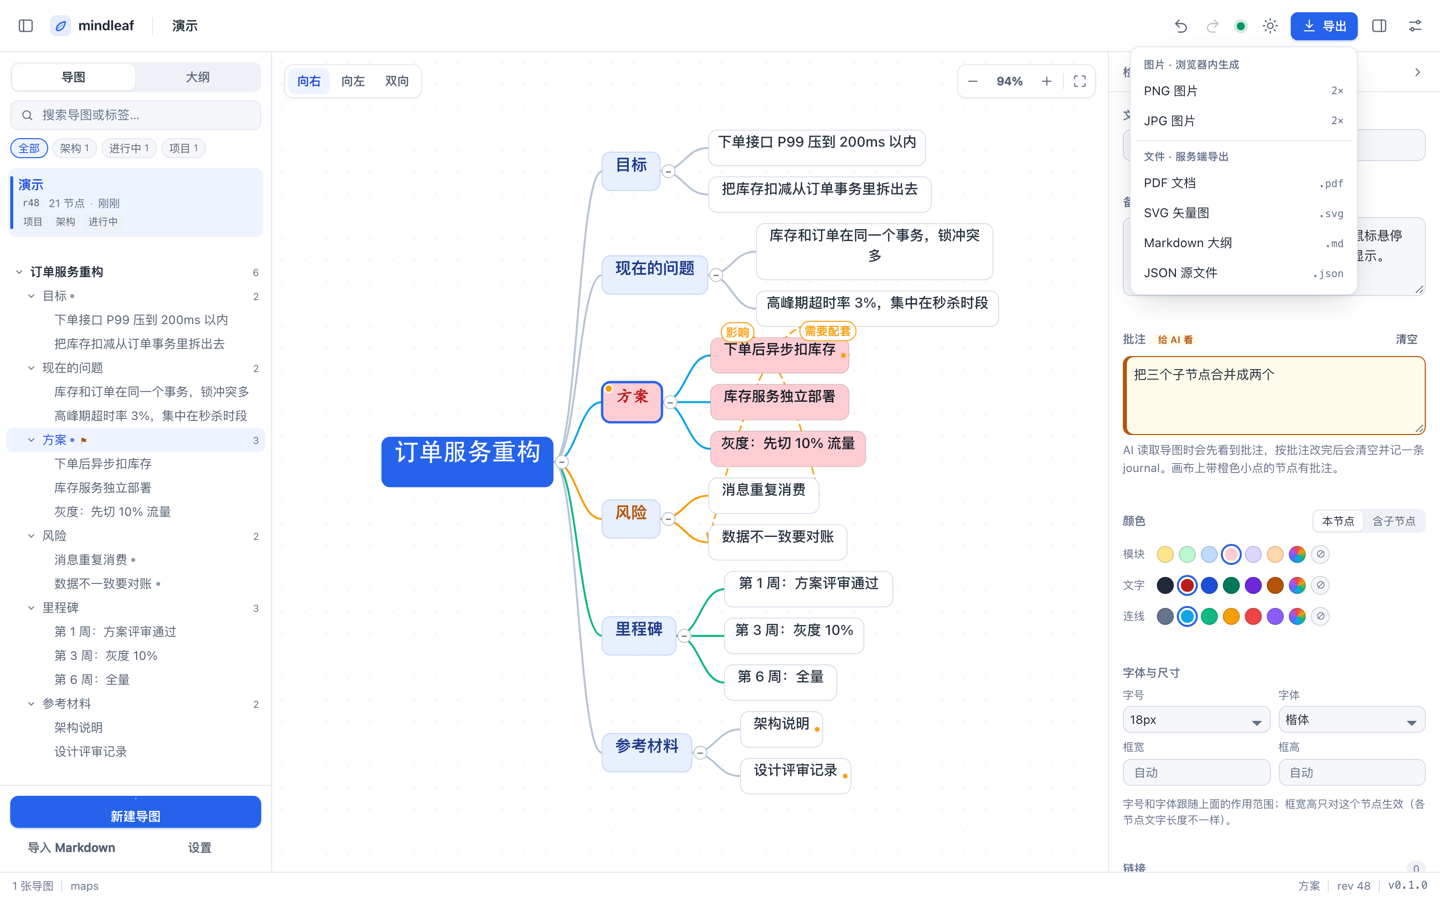
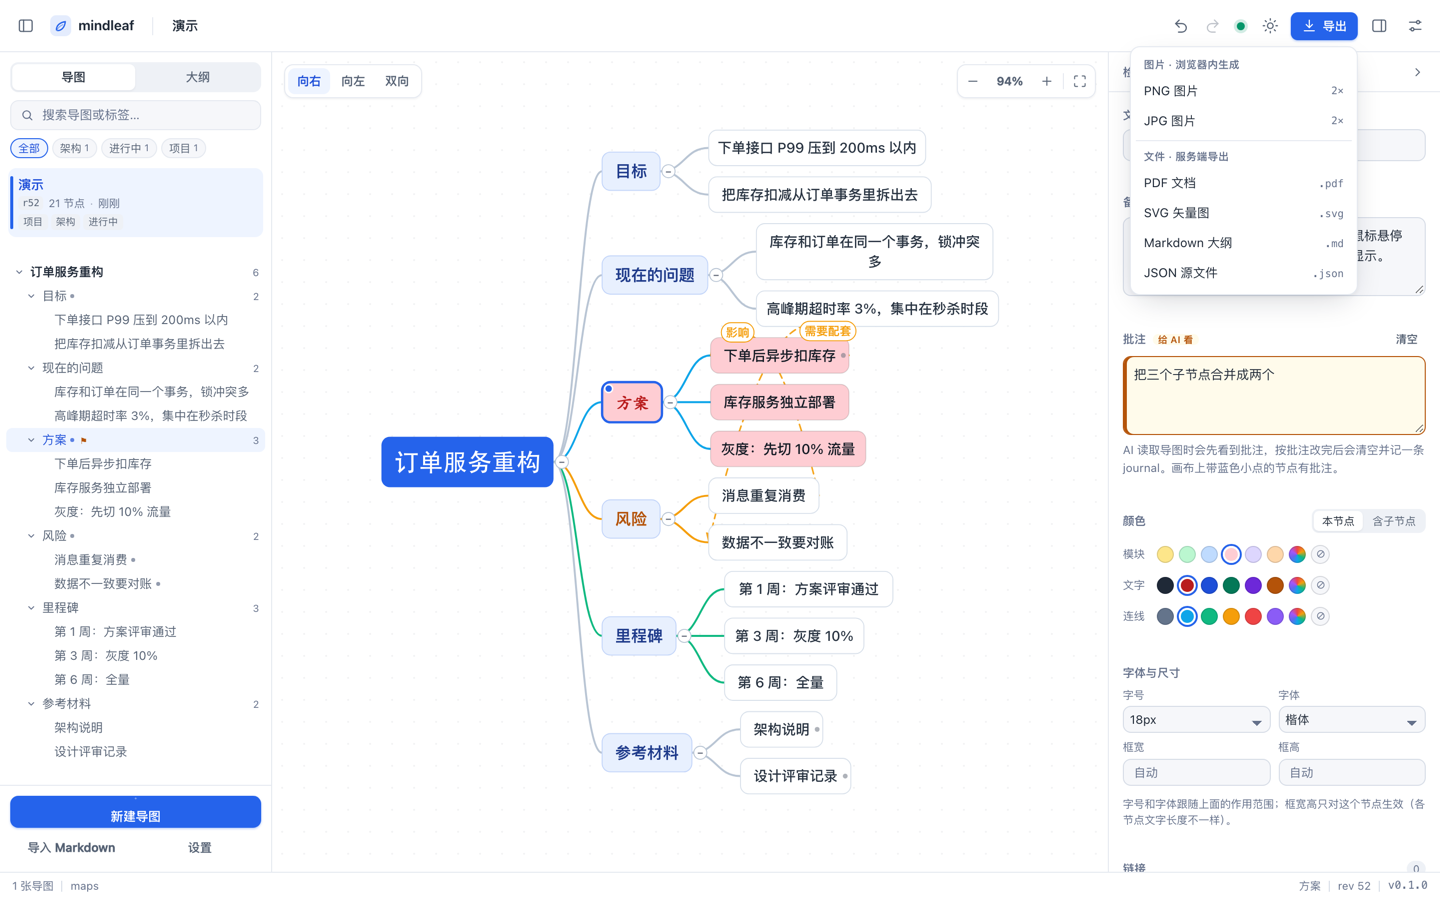
批注点改蓝、备注不再打点；节点文字改成真正垂直居中
标记：
- 批注标记改成蓝色圆点（浅色 #2563eb / 深色 #60a5fa），清空批注后自动消失
- 备注不再有画布标记（只有悬停提示），「备注」和「批注」不再各有一种点
- 链接小点从橙色改成低透明度中性灰，避免和批注蓝点混淆
- 更新检查器提示、README 中英、CHANGELOG、AGENTS 的说明（蓝点=批注）

文字居中：
- 原因：之前用 0.42 的经验值估基线，字明显偏上
- 改成按字体真实度量算：ascent 0.941em / descent 0.235em（Chromium 实测 system/serif/mono 一致），
  基线 = 文字块顶部 + (行高 - ascent - descent)/2 + ascent
- 基线在布局里算一次（node.firstBaseline），SVG 和矢量 PDF 共用，网页/PNG/PDF 三处一致
- 实测导出图里单行节点文字墨迹中心与框中心偏差 ≤ 0.5px

测试：新增「文字垂直居中」用例，批注标记改为断言蓝色；共 159 个全过。
截图全部重新生成。

diff --git a/web/app.js b/web/app.js
@@ -708,7 +708,7 @@ function nodeInspectorHtml(node) {
         </div>
         <textarea class="input textarea annotation-input${node.annotation ? ' has-value' : ''}" id="insp-annotation" rows="3" maxlength="4000"
           placeholder="想让 AI 在这里改什么？例如：把这三个子节点合并成两个，名字更短一点">${esc(node.annotation ?? '')}</textarea>
-        <p class="hint annotation-hint">AI 读取导图时会先看到批注，按批注改完后会清空并记一条 journal。画布上带橙色小点的节点有批注。</p>
+        <p class="hint annotation-hint">AI 读取导图时会先看到批注，按批注改完后会清空并记一条 journal。画布上带蓝色小点的节点有批注。</p>
       </section>
       <section class="field">
         <div class="color-head">

diff --git a/CHANGELOG.md b/CHANGELOG.md
@@ -11,7 +11,8 @@
 
 ### 功能
 
-- **批注**：节点上可以直接写"这里要怎么改"，AI 读图时会先看到并按批注修改，改完自动清空；画布和大纲都有标记
+- **批注**：节点上可以直接写"这里要怎么改"，AI 读图时会先看到并按批注修改，改完自动清空；画布上蓝点、大纲里 ⚑ 标记
+- **文字垂直居中**：节点文字按字体 ascent/descent 精确居中（网页、PNG、PDF 三处一致）
 - **悬停看备注**：鼠标在节点上停 0.5–3 秒（可设置）后，在鼠标旁边浮出该节点的备注，字号跟侧栏一致
 - **界面偏好**：左右两栏可以拖动分隔线改宽（双击恢复默认，会记住）；设置里能调侧栏字号（小 / 标准 / 大 / 特大），只影响两栏
 - **网页编辑**：行内编辑、拖拽改父节点、`Tab` / `Enter` 快速加节点、撤销重做、折叠、三种布局（向右 / 向左 / 两边）

diff --git a/AGENTS.md b/AGENTS.md
@@ -97,7 +97,8 @@ $MM annotations                    # 看有没有人类留的批注要处理
 - `nodes` 是扁平数组 + `parent` 指针，**只有一个根**（`parent: null`）。
 - `order` 决定同级顺序；插入后不用手排，op 会重排。
 - `links[].kind`：`file`（工作区文件，相对路径以项目根的 `workspaceDir` 为准）、`url`、`code`（可带 `#L10-L20` 行号）。
-- `annotation` 是人类写给 agent 的修改要求；处理完要清空。`note` 是人给自己看的备注。
+- `annotation` 是人类写给 agent 的修改要求（画布上蓝色小点、大纲里 ⚑），处理完要清空，
+  清空后标记自动消失。`note` 是人给自己看的备注，画布上不显示标记。
 
 - `edges` 是跨分支的关联线（虚线箭头），不参与树结构。
 - 读到不合法的文件也不要慌：`normalizeDoc` 会自动修复孤儿、环、重复 id、多根。

diff --git a/README.en.md b/README.en.md
@@ -180,8 +180,8 @@ Halfway through reviewing a map you think "this should be two nodes instead of t
 switch to the chat and explain which node you meant. Now you write it on the node:
 
 select the node → the "批注" (annotation) box sits under the note in the right panel → type what you
-want the AI to do. Annotated nodes get a small orange dot on the canvas and a ⚑ in the outline, so you
-can see at a glance what's still open.
+want the AI to do. Annotated nodes get a small **blue** dot on the canvas and a ⚑ in the outline, so you
+can see at a glance what's still open. Once the agent clears the annotation, the dot goes away.
 
 On the agent side:
 

diff --git a/README.md b/README.md
@@ -166,7 +166,8 @@ read_map  →  apply_ops  →  export_map
 现在直接在节点上写：
 
 选中节点 → 右侧面板「备注」下面就是「批注」，写成你想让 AI 做什么，比如"把这三个子节点合并成两个"。
-带批注的节点左上角有个**橙色小点**，大纲里也会标一个 ⚑，一眼能看出哪里还没处理。
+带批注的节点左上角有个**蓝色小点**，大纲里也会标一个 ⚑，一眼能看出哪里还没处理。
+AI 改完把批注清掉，蓝点就自动消失了。
 
 AI 那边是这样接的：
 
